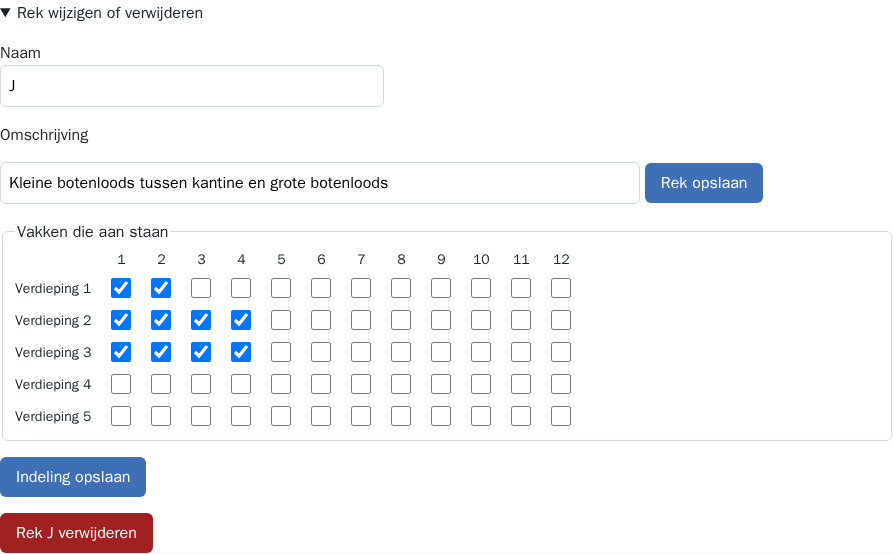
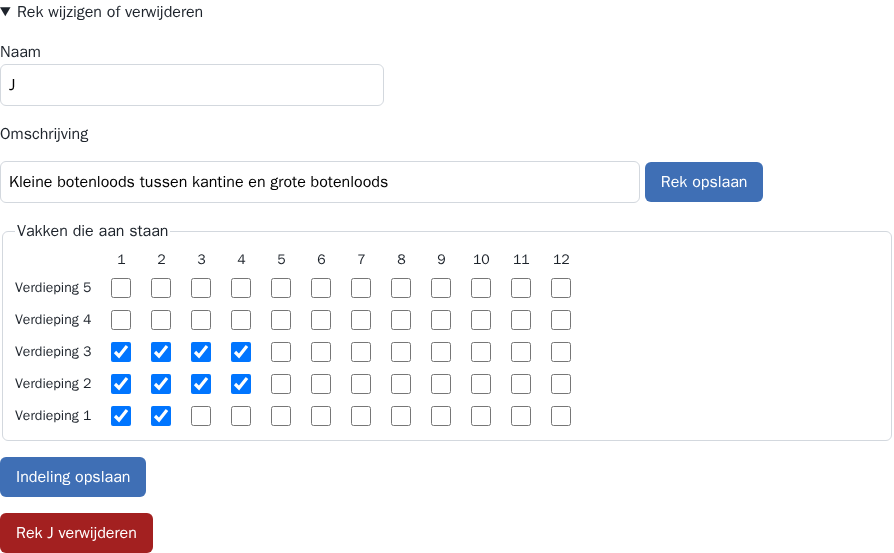
Indeling: verdieping 1 onderaan in het raster en bij Bootsoort per verdieping (issue #110) (#113)
Review: Sentinel, akkoord

diff --git a/app/web/templates/indeling.html b/app/web/templates/indeling.html
@@ -8,7 +8,8 @@
     <div class="raster">
       <span aria-hidden="true"></span>
       {% for vak in vakken %}<span class="raster-kop" aria-hidden="true">{{ vak }}</span>{% endfor %}
-      {% for verdieping in verdiepingen %}
+      {# Verdieping 1 onderaan, zoals het rek in de loods staat. #}
+      {% for verdieping in verdiepingen|reverse %}
       <span class="raster-kop raster-rij" aria-hidden="true">Verdieping {{ verdieping }}</span>
       {% for vak in vakken %}
       <label class="vakje"><input type="checkbox" name="vak" value="{{ verdieping }}-{{ vak }}"{% if plaatsen|selectattr('verdieping', 'equalto', verdieping)|selectattr('vak', 'equalto', vak)|first is defined %} checked{% endif %}><span class="verborgen">Verdieping {{ verdieping }}, vak {{ vak }}</span></label>
@@ -35,7 +36,7 @@
     <fieldset>
       <legend>Bootsoort per verdieping (niet verplicht)</legend>
       <p>Elke plaats op die verdieping krijgt deze bootsoort, ook een vak dat later aan gaat. Zonder keuze krijgt een nieuwe plaats geen bootsoort.</p>
-      {% for verdieping in verdiepingen %}
+      {% for verdieping in verdiepingen|reverse %}
       <label for="bootsoort-{{ verdieping }}">Verdieping {{ verdieping }}</label>
       <select id="bootsoort-{{ verdieping }}" name="bootsoort-{{ verdieping }}">
         <option value="">Geen bootsoort</option>

diff --git a/tests/unit/test_web_beheer.py b/tests/unit/test_web_beheer.py
@@ -127,6 +127,17 @@ def test_indeling_raster_met_labels_en_aangevinkte_vakken(ingelogd):
     assert 'name="vak" value="1-1" checked>' in tekst and tekst.count(" checked>") == 1
 
 
+def test_indeling_zet_verdieping_1_onderaan(ingelogd):
+    plaats("X/1/1")
+    tekst = ingelogd.get("/indeling").text
+    # Raster van nieuw rek en van rek X, daarna Bootsoort per verdieping: overal 5 boven 1.
+    blokken = {"raster nieuw rek": tekst.index('class="raster"'),
+               "raster rek X": tekst.rindex('class="raster"'),
+               "bootsoort per verdieping": tekst.index("Bootsoort per verdieping")}
+    for blok, begin in blokken.items():
+        assert tekst.index("Verdieping 5", begin) < tekst.index("Verdieping 1", begin), blok
+
+
 def test_rek_wijzigen_en_indeling_instellen(ingelogd):
     p = plaats("X/1/1")
     rek_id = p.rek_id

diff --git a/documentatie/gebruikers/handleiding.md b/documentatie/gebruikers/handleiding.md
@@ -60,7 +60,7 @@ De pagina `/indeling` toont elk rek met zijn omschrijving en plaatsen. Per plaat
 
 ![De pagina Indeling met het formulier voor een nieuw rek, met het raster van verdiepingen en vakken, en het eerste rek.](afbeeldingen/indeling.png)
 
-- **Rek aanmaken:** vul bovenaan een naam in (1 tot 10 tekens, zonder `/`, uniek zonder verschil in hoofdletters) en eventueel een omschrijving (hooguit 60 tekens). Vink in het raster de vakken aan die bestaan. Elk vakje heet "Verdieping 2, vak 3" voor schermlezers. Kies eventueel per verdieping een bootsoort: elke plaats op die verdieping krijgt die soort als geschikte bootsoort. Een verdieping zonder keuze geeft haar plaatsen geen bootsoort. Kies **Rek aanmaken**.
+- **Rek aanmaken:** vul bovenaan een naam in (1 tot 10 tekens, zonder `/`, uniek zonder verschil in hoofdletters) en eventueel een omschrijving (hooguit 60 tekens). Vink in het raster de vakken aan die bestaan. Het raster staat zoals het rek in de loods: verdieping 1 onderaan. Elk vakje heet "Verdieping 2, vak 3" voor schermlezers. Kies eventueel per verdieping een bootsoort: elke plaats op die verdieping krijgt die soort als geschikte bootsoort. Een verdieping zonder keuze geeft haar plaatsen geen bootsoort. Kies **Rek aanmaken**.
 - **Naam en omschrijving wijzigen:** open **Rek wijzigen of verwijderen**, pas ze aan en kies **Rek opslaan**. Een nieuwe naam verandert de aanduiding van alle plaatsen in het rek. De QR-codes en de toewijzingen blijven gelijk.
 - **Vakken aan- of uitzetten:** open **Rek wijzigen of verwijderen**, verander het raster en kies **Indeling opslaan**. Een nieuw vak is een nieuwe plaats, met de bootsoort die je bij Nieuw rek voor die verdieping koos (geen keuze betekent geen bootsoort). Bestaande plaatsen veranderen niet. Een vak dat uit gaat, verdwijnt met zijn plaats. Ligt er een boot op, dan weigert de applicatie en verandert er niets; geef de plaats eerst vrij. Zet je een vak uit dat niet het laatste van zijn verdieping is, dan weigert de applicatie ook, omdat er dan een gat ontstaat. De andere vakken houden hun nummer, boot en QR-code.
 - **Rek verwijderen:** kies **Rek ... verwijderen**. Dat lukt alleen als er geen boten meer op liggen.
